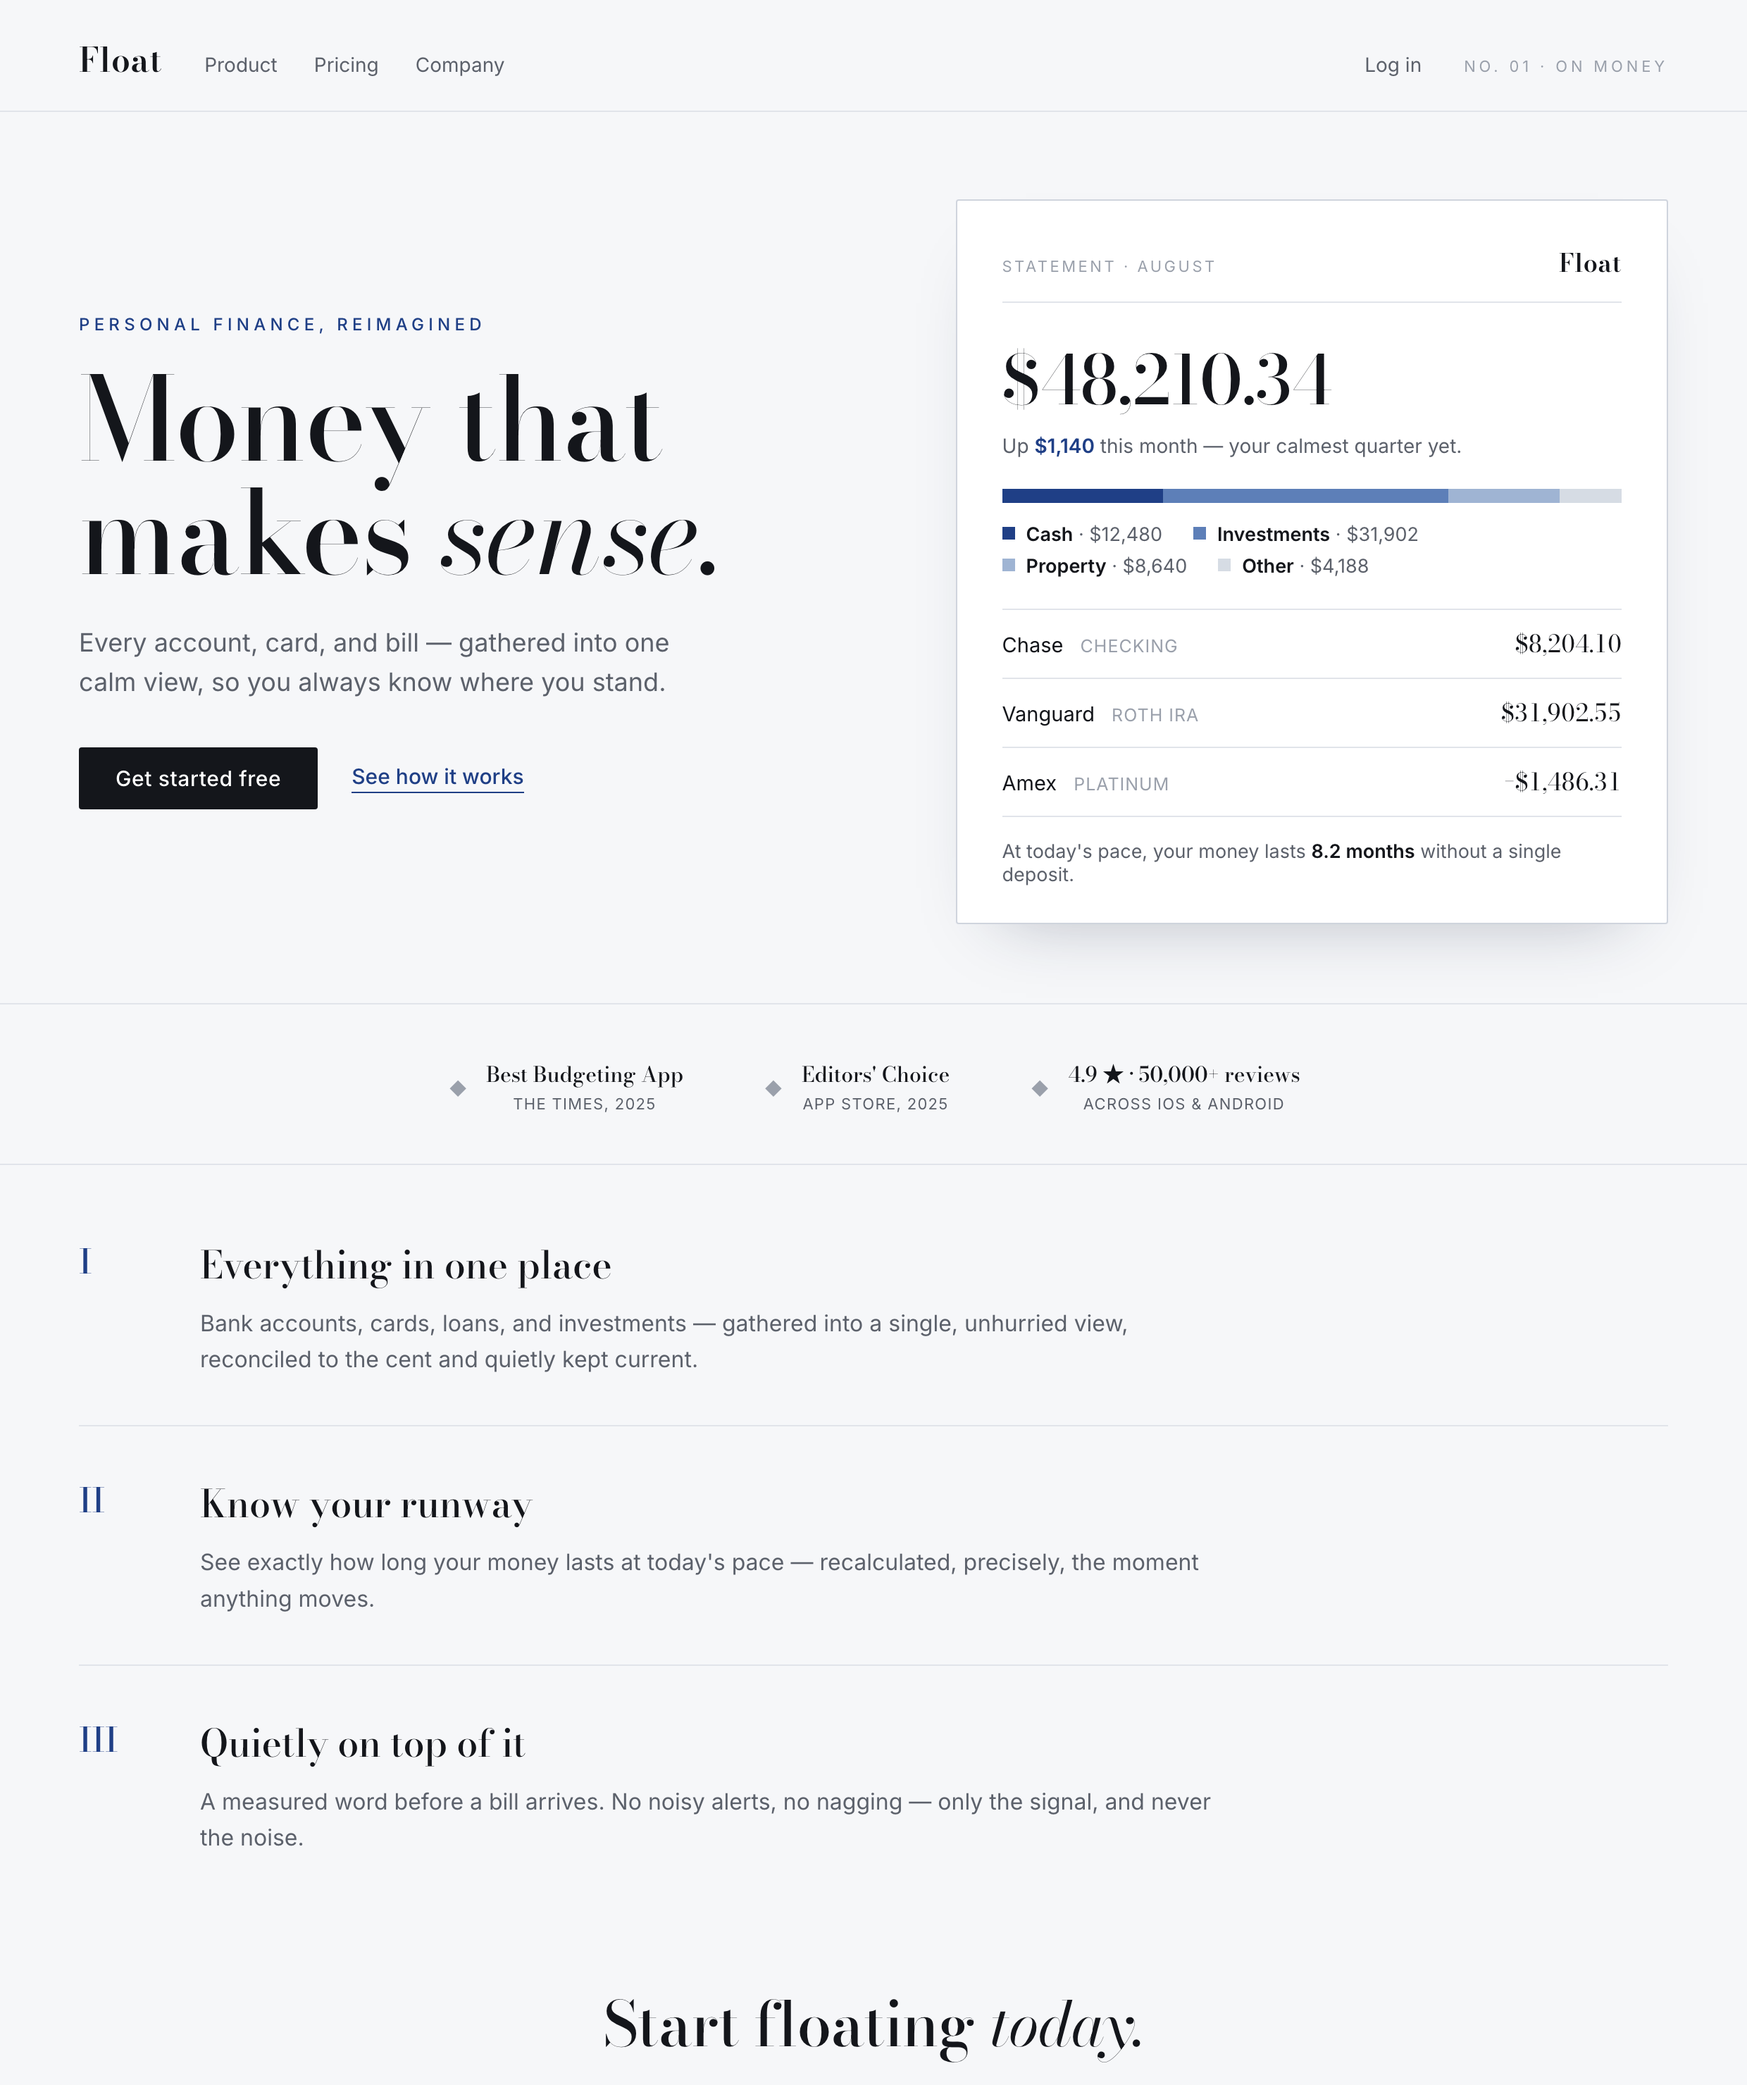
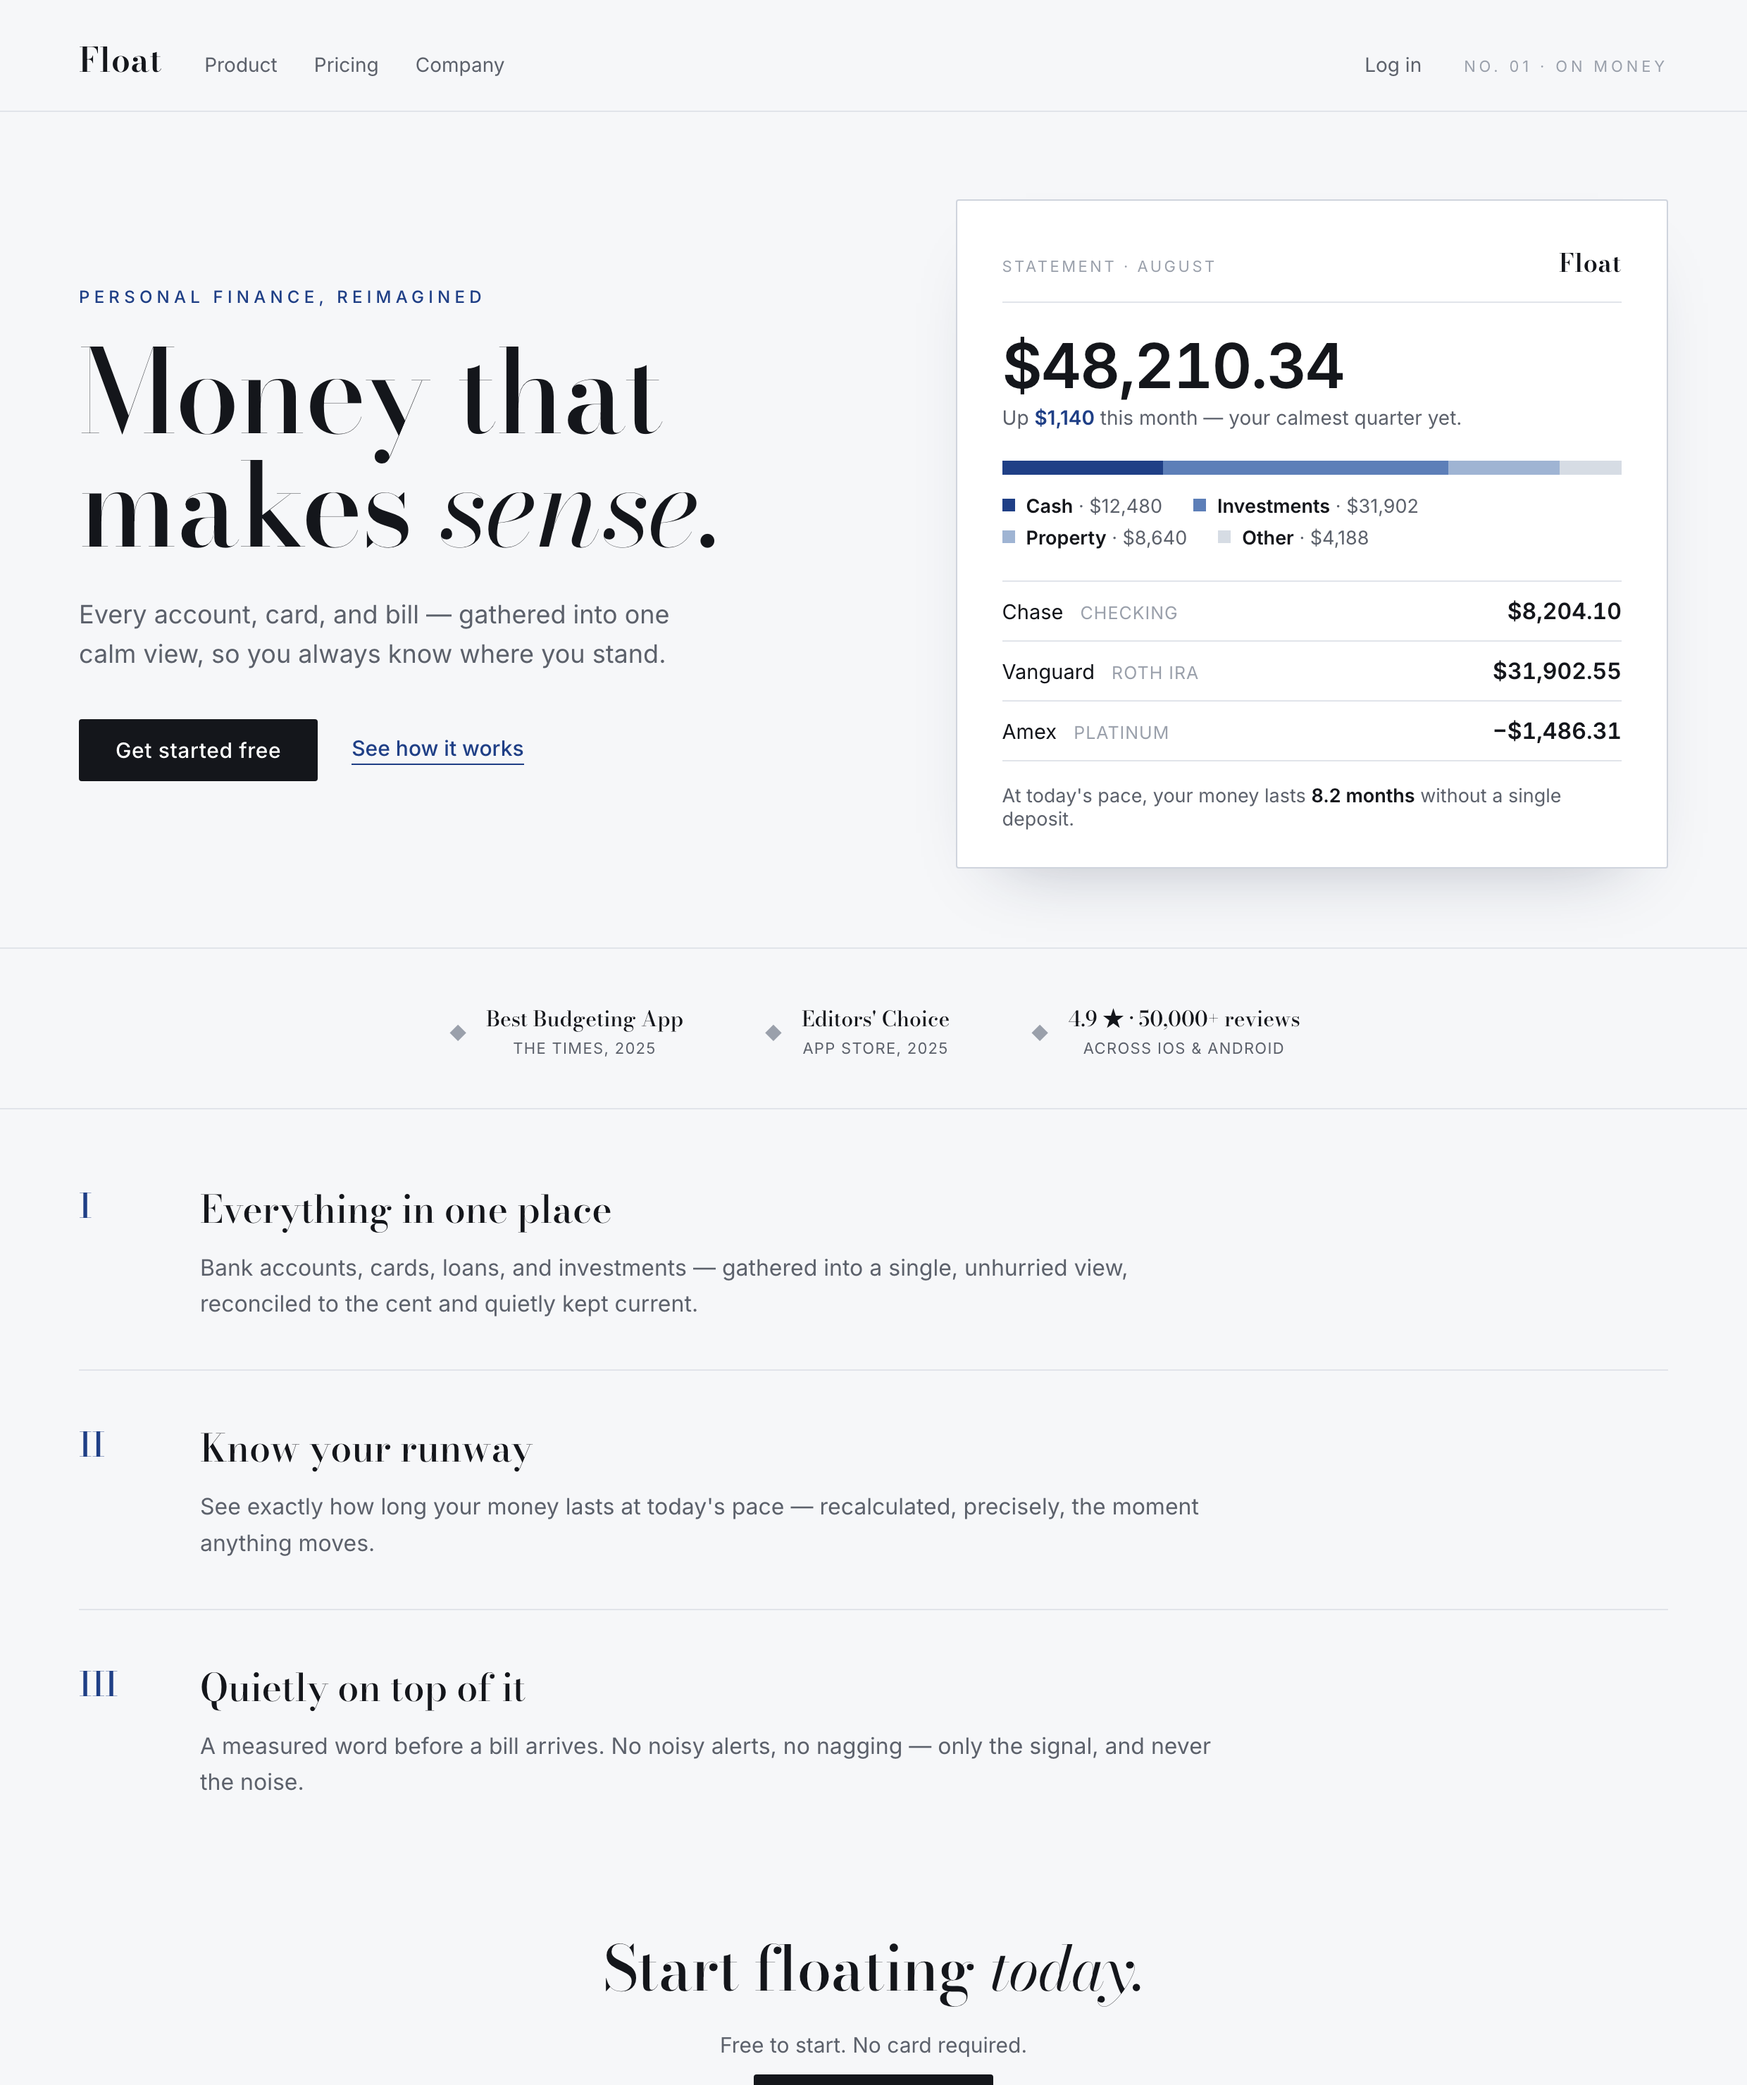
registers: fix cold-editorial legibility — statement figures use tabular sans, Bodoni reserved for headline (applies the legibility caution to the artifact)

diff --git a/registers/float-cold-editorial.html b/registers/float-cold-editorial.html
@@ -58,7 +58,8 @@
   .st-head { display: flex; align-items: baseline; justify-content: space-between; border-bottom: 1px solid var(--rule); padding-bottom: 14px; }
   .st-head .lab { font-size: 11px; letter-spacing: .16em; text-transform: uppercase; color: var(--faint); }
   .st-head .mk { font-family: var(--disp); font-size: 18px; font-weight: 600; letter-spacing: .01em; }
-  .st-nw { font-family: var(--disp); font-size: 48px; font-weight: 500; letter-spacing: -.01em; margin: 18px 0 2px; }
+  /* numbers use a legible tabular companion, NOT the Didone display face (legibility overrides voice for data) */
+  .st-nw { font-family: var(--body); font-size: 44px; font-weight: 600; letter-spacing: -.02em; margin: 18px 0 2px; font-variant-numeric: tabular-nums; }
   .st-up { font-size: 14px; color: var(--muted); }
   .st-up b { color: var(--accent); font-weight: 600; }
   .alloc { margin: 22px 0 0; }
@@ -72,7 +73,7 @@
   .rows .r { display: flex; align-items: baseline; justify-content: space-between; padding: 11px 0; border-bottom: 1px solid var(--rule); }
   .rows .r .n { font-size: 14.5px; color: var(--ink); }
   .rows .r .n small { color: var(--faint); font-size: 12.5px; margin-left: 8px; text-transform: uppercase; letter-spacing: .04em; }
-  .rows .r .a { font-family: var(--disp); font-size: 17px; font-variant-numeric: tabular-nums; }
+  .rows .r .a { font-family: var(--body); font-size: 16px; font-weight: 600; font-variant-numeric: tabular-nums; }
   .st-foot { font-size: 13.5px; color: var(--muted); margin-top: 16px; }
   .st-foot b { color: var(--ink); font-weight: 600; }
 
